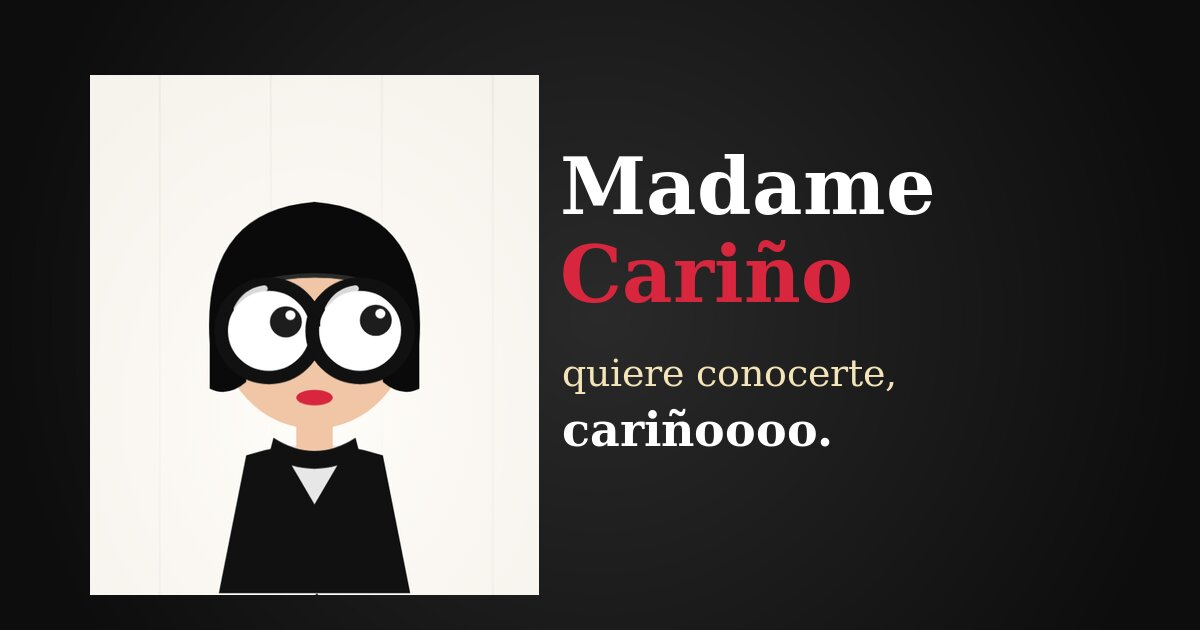
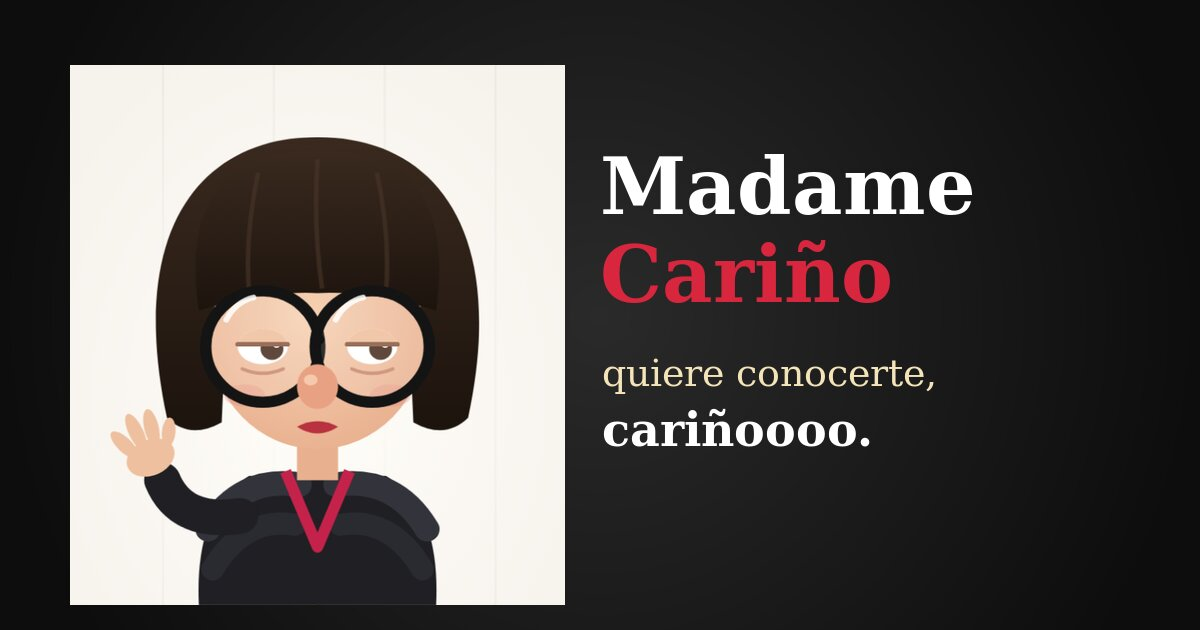
Madame Cariño: nuevo diseño y versión para Valeri
- Dibujo nuevo: melena redonda con flequillo recto, gafas gigantes de
  marco delgado, ojos medio cerrados, nariz grande, boquita roja,
  vestido oscuro con hombreras y cuello rojo, y mano levantada
- "Valeri" ya viene escrito (se puede cambiar con ?para=)
- Si a "¿hay alguien a quien quieras?" responde Felipe, Madame
  revela que fue él quien le pidió el favor
- Portada de WhatsApp actualizada

Claude-Session: https://claude.ai/code/session_01J87dhQWiZSshzPJ8ZYVRfB

Changed region(s): [[0.0308, 0.0905, 0.8325, 0.9651]]

diff --git a/carino/index.html b/carino/index.html
@@ -112,19 +112,19 @@
   /* ---------- MADAME ---------- */
   .madame{
     position:relative;
-    width:190px;
-    height:220px;
+    width:210px;
+    height:229px;
     border:0;background:transparent;padding:0;
     cursor:pointer;
     flex:none;
   }
   .madame:focus-visible{outline:3px solid var(--red);outline-offset:6px;border-radius:20px}
   .madame svg{width:100%;height:100%;overflow:visible}
-  .madame .cuerpo{transform-origin:100px 230px;animation:respira 3.4s ease-in-out infinite}
+  .madame .cuerpo{transform-origin:110px 240px;animation:respira 3.4s ease-in-out infinite}
   @keyframes respira{0%,100%{transform:scale(1)}50%{transform:scale(1.015,.99)}}
   .madame.wow .cuerpo{animation:wow .6s cubic-bezier(.3,1.6,.5,1)}
   @keyframes wow{30%{transform:translateY(-14px) scale(1.04)}}
-  .madame .boca{transform-origin:100px 142px;transition:transform .08s}
+  .madame .boca{transform-origin:110px 160px;transform-box:view-box;transition:transform .08s}
   .madame.habla .boca{animation:habla .18s ease-in-out infinite alternate}
   @keyframes habla{from{transform:scaleY(.4)}to{transform:scaleY(1.5)}}
   .madame .brillo{animation:brilla 4s ease-in-out infinite}
@@ -382,36 +382,76 @@
     <div class="atelier" id="atelier">
       <div class="stage">
         <button class="madame" id="madame" aria-label="Madame Cariño">
-          <svg viewBox="0 0 200 230" aria-hidden="true">
+          <svg viewBox="0 0 220 240" aria-hidden="true">
+            <defs>
+              <radialGradient id="piel" cx="45%" cy="40%" r="65%">
+                <stop offset="0" stop-color="#f7d2b4"/>
+                <stop offset="1" stop-color="#e9b08f"/>
+              </radialGradient>
+              <linearGradient id="pelo" x1="0" y1="0" x2="0" y2="1">
+                <stop offset="0" stop-color="#3a2a1f"/>
+                <stop offset="1" stop-color="#1d140e"/>
+              </linearGradient>
+            </defs>
             <g class="cuerpo">
-              <!-- vestido -->
-              <path d="M58 230 L70 168 Q100 158 130 168 L142 230 Z" fill="#111"/>
-              <path d="M84 162 L100 190 L116 162 Z" fill="#fff" opacity=".9"/>
-              <rect x="92" y="150" width="16" height="18" fill="#f0c6a6"/>
-              <!-- cuello alto -->
-              <path d="M82 160 Q100 172 118 160 L120 168 Q100 180 80 168 Z" fill="#111"/>
-              <!-- cabeza -->
-              <ellipse cx="100" cy="110" rx="42" ry="46" fill="#f0c6a6"/>
-              <!-- melena -->
-              <path d="M54 118 Q50 58 100 54 Q150 58 146 118 L146 138 Q138 142 130 135 L130 92 Q100 84 70 92 L70 135 Q62 142 54 138 Z" fill="#0a0a0a"/>
-              <path d="M70 92 Q100 82 130 92" stroke="#2a2a2a" stroke-width="2" fill="none"/>
-              <!-- gafas -->
-              <g>
-                <circle cx="80" cy="112" r="21" fill="#fff" stroke="#111" stroke-width="6"/>
-                <circle cx="120" cy="112" r="21" fill="#fff" stroke="#111" stroke-width="6"/>
-                <path d="M100 110 Q100 104 100 110" stroke="#111" stroke-width="5"/>
-                <line x1="99" y1="109" x2="101" y2="109" stroke="#111" stroke-width="6"/>
-                <circle id="ojoI" cx="80" cy="113" r="7" fill="#1d1d1d"/>
-                <circle id="ojoD" cx="120" cy="113" r="7" fill="#1d1d1d"/>
-                <circle id="luzI" cx="82" cy="110" r="2.2" fill="#fff"/>
-                <circle id="luzD" cx="122" cy="110" r="2.2" fill="#fff"/>
-                <ellipse class="parpado" cx="80" cy="112" rx="17" ry="17" fill="#f0c6a6"/>
-                <ellipse class="parpado" cx="120" cy="112" rx="17" ry="17" fill="#f0c6a6"/>
-                <path class="brillo" d="M66 102 Q70 94 78 93" stroke="#fff" stroke-width="3" fill="none" stroke-linecap="round" opacity=".85"/>
-                <path class="brillo" d="M106 102 Q110 94 118 93" stroke="#fff" stroke-width="3" fill="none" stroke-linecap="round" opacity=".85"/>
+              <!-- melena (parte de atrás) -->
+              <path d="M44 156 C26 70 60 30 110 30 C160 30 194 70 176 156 Q166 166 152 158 L150 112 L70 112 L68 158 Q54 166 44 156 Z" fill="url(#pelo)"/>
+              <!-- vestido con hombreras y cuello rojo -->
+              <path d="M58 240 Q56 196 80 182 L140 182 Q164 196 162 240 Z" fill="#1f1f24"/>
+              <path d="M62 206 Q76 182 102 186" stroke="#33333b" stroke-width="11" fill="none" stroke-linecap="round"/>
+              <path d="M64 224 Q78 200 100 204" stroke="#2a2a31" stroke-width="10" fill="none" stroke-linecap="round"/>
+              <path d="M158 206 Q144 182 118 186" stroke="#33333b" stroke-width="11" fill="none" stroke-linecap="round"/>
+              <path d="M156 224 Q142 200 120 204" stroke="#2a2a31" stroke-width="10" fill="none" stroke-linecap="round"/>
+              <rect x="101" y="160" width="18" height="24" fill="#e9b08f"/>
+              <path d="M96 180 L110 214 L124 180" stroke="#c4224a" stroke-width="5" fill="none" stroke-linejoin="round"/>
+              <!-- brazo y mano: "por favor, cariño" -->
+              <path d="M76 200 Q50 204 42 184" stroke="#1f1f24" stroke-width="16" fill="none" stroke-linecap="round"/>
+              <g transform="rotate(-25 36 172)">
+                <ellipse cx="36" cy="174" rx="11" ry="8" fill="#efc09f"/>
+                <ellipse cx="28" cy="164" rx="3.2" ry="8" fill="#efc09f" transform="rotate(-20 28 164)"/>
+                <ellipse cx="35" cy="161" rx="3.2" ry="9" fill="#efc09f"/>
+                <ellipse cx="42" cy="162" rx="3.2" ry="8.5" fill="#efc09f" transform="rotate(12 42 162)"/>
+                <ellipse cx="48" cy="167" rx="3" ry="6.5" fill="#efc09f" transform="rotate(30 48 167)"/>
               </g>
+              <!-- cara -->
+              <ellipse cx="110" cy="120" rx="47" ry="50" fill="url(#piel)"/>
+              <!-- flequillo recto -->
+              <path d="M58 108 C50 52 76 36 110 36 C144 36 170 52 162 108 Q136 99 110 100 Q84 99 58 108 Z" fill="url(#pelo)"/>
+              <path d="M110 40 Q108 70 112 98 M84 46 Q78 74 80 100 M136 46 Q142 74 140 100" stroke="#4a3628" stroke-width="2" fill="none" opacity=".6"/>
+              <!-- cachetes -->
+              <ellipse cx="78" cy="146" rx="9" ry="5" fill="#e88f86" opacity=".35"/>
+              <ellipse cx="142" cy="146" rx="9" ry="5" fill="#e88f86" opacity=".35"/>
+              <!-- ojos medio cerrados -->
+              <g>
+                <ellipse cx="86" cy="124" rx="11" ry="8" fill="#fff"/>
+                <ellipse cx="134" cy="124" rx="11" ry="8" fill="#fff"/>
+                <circle id="ojoI" cx="86" cy="126" r="5" fill="#4a2f22"/>
+                <circle id="ojoD" cx="134" cy="126" r="5" fill="#4a2f22"/>
+                <circle id="luzI" cx="88" cy="124" r="1.6" fill="#fff"/>
+                <circle id="luzD" cx="136" cy="124" r="1.6" fill="#fff"/>
+                <!-- párpados pesados (recortados a la forma del ojo) -->
+                <clipPath id="clipI"><ellipse cx="86" cy="124" rx="11" ry="8"/></clipPath>
+                <clipPath id="clipD"><ellipse cx="134" cy="124" rx="11" ry="8"/></clipPath>
+                <rect x="72" y="110" width="28" height="13" fill="#efc09f" clip-path="url(#clipI)"/>
+                <rect x="120" y="110" width="28" height="13" fill="#efc09f" clip-path="url(#clipD)"/>
+                <path d="M75 123 L97 123" stroke="#8a5a44" stroke-width="2" fill="none" stroke-linecap="round"/>
+                <path d="M123 123 L145 123" stroke="#8a5a44" stroke-width="2" fill="none" stroke-linecap="round"/>
+                <path d="M77 134 Q86 138 95 134" stroke="#c98a6e" stroke-width="1.5" fill="none" stroke-linecap="round"/>
+                <path d="M125 134 Q134 138 143 134" stroke="#c98a6e" stroke-width="1.5" fill="none" stroke-linecap="round"/>
+                <ellipse class="parpado" cx="86" cy="124" rx="12" ry="9" fill="#efc09f"/>
+                <ellipse class="parpado" cx="134" cy="124" rx="12" ry="9" fill="#efc09f"/>
+              </g>
+              <!-- gafas gigantes -->
+              <circle cx="86" cy="124" r="25" fill="rgba(255,255,255,.12)" stroke="#141414" stroke-width="5"/>
+              <circle cx="134" cy="124" r="25" fill="rgba(255,255,255,.12)" stroke="#141414" stroke-width="5"/>
+              <path d="M109 121 Q110 118 111 121" stroke="#141414" stroke-width="4" fill="none" stroke-linecap="round"/>
+              <path class="brillo" d="M70 112 Q74 104 82 102" stroke="#fff" stroke-width="2.5" fill="none" stroke-linecap="round" opacity=".7"/>
+              <path class="brillo" d="M118 112 Q122 104 130 102" stroke="#fff" stroke-width="2.5" fill="none" stroke-linecap="round" opacity=".7"/>
+              <!-- nariz -->
+              <ellipse cx="110" cy="142" rx="9" ry="10" fill="#e8a283"/>
+              <ellipse cx="107" cy="139" rx="3" ry="2.5" fill="#f6c9ad"/>
               <!-- boca -->
-              <ellipse class="boca" cx="100" cy="142" rx="8" ry="3.5" fill="#d7263d"/>
+              <path class="boca" d="M101 160 Q110 155 119 160 Q110 166 101 160 Z" fill="#b8323f"/>
             </g>
           </svg>
         </button>
@@ -466,6 +506,11 @@
   //  EDITA AQUÍ  →  todo lo que dice Madame Cariño
   // ===================================================================
   const CONFIG = {
+    // Nombre que ya viene escrito (se puede cambiar con ?para=Nombre en el link)
+    nombre: "Valeri",
+    // Si responde este nombre a "¿a quién quieres?", Madame revela el secreto
+    secretoDe: "Felipe",
+    revelacion: "¿{a}? ¡LO SABÍA! *se baja las gafas* Ese muchacho vino a mi atelier a rogarme que te dijera lo fabulosa que eres, cariño. Y yo NUNCA hago favores. Nunca. Pero por ti… hice una excepción.",
     saludo: "¡Cariñoooo! Pasa, pasa. No te quedes ahí en la puerta. ¿Cómo te llamas?",
     sinNombre: "Un nombre, cariño. No leo mentes… todavía.",
     // {n} se reemplaza por su nombre
@@ -605,17 +650,17 @@
   // ===================================================================
   //  Los ojos siguen el dedo
   // ===================================================================
-  const ojos = [["ojoI", "luzI", 80], ["ojoD", "luzD", 120]];
+  const ojos = [["ojoI", "luzI", 86], ["ojoD", "luzD", 134]];
   function mirar(cx, cy){
     const svg = madame.querySelector("svg").getBoundingClientRect();
-    const sx = svg.width / 200, sy = svg.height / 230;
+    const sx = svg.width / 220, sy = svg.height / 240;
     ojos.forEach(([o, l, x0]) => {
-      const ox = svg.left + x0 * sx, oy = svg.top + 113 * sy;
+      const ox = svg.left + x0 * sx, oy = svg.top + 126 * sy;
       const ang = Math.atan2(cy - oy, cx - ox);
-      const dist = Math.min(9, Math.hypot(cx - ox, cy - oy) / 18);
-      const dx = Math.cos(ang) * dist, dy = Math.sin(ang) * dist;
-      $(o).setAttribute("cx", x0 + dx); $(o).setAttribute("cy", 113 + dy);
-      $(l).setAttribute("cx", x0 + 2 + dx); $(l).setAttribute("cy", 110 + dy);
+      const dist = Math.min(5, Math.hypot(cx - ox, cy - oy) / 25);
+      const dx = Math.cos(ang) * dist, dy = Math.max(-1, Math.min(2, Math.sin(ang) * dist * .5));
+      $(o).setAttribute("cx", x0 + dx); $(o).setAttribute("cy", 126 + dy);
+      $(l).setAttribute("cx", x0 + 2 + dx); $(l).setAttribute("cy", 124 + dy);
     });
   }
   window.addEventListener("pointermove", (e) => mirar(e.clientX, e.clientY));
@@ -681,7 +726,7 @@
 
   // Si el link trae ?para=Nombre, ya viene escrito
   const params = new URLSearchParams(location.search);
-  if (params.get("para")) $("nombre").value = params.get("para").slice(0, 24);
+  $("nombre").value = (params.get("para") || CONFIG.nombre || "").slice(0, 24);
 
   decir(CONFIG.saludo, false);
 
@@ -753,7 +798,10 @@
     const a = capital($("amor").value.trim());
     if (!a){ $("secreto").click(); return; }
     $("amor").blur();
-    const t = CONFIG.reacciones[Math.floor(Math.random() * CONFIG.reacciones.length)].replace(/\{a\}/g, a);
+    const esEl = CONFIG.secretoDe && a.toLowerCase().includes(CONFIG.secretoDe.toLowerCase());
+    const plantilla = esEl ? CONFIG.revelacion : CONFIG.reacciones[Math.floor(Math.random() * CONFIG.reacciones.length)];
+    const t = plantilla.replace(/\{a\}/g, a);
+    if (esEl) setTimeout(() => lentejuelas(60), 600);
     decir(t);
     mostrar("pasoReaccion");
     const {x, y} = enAtelier(madame);
